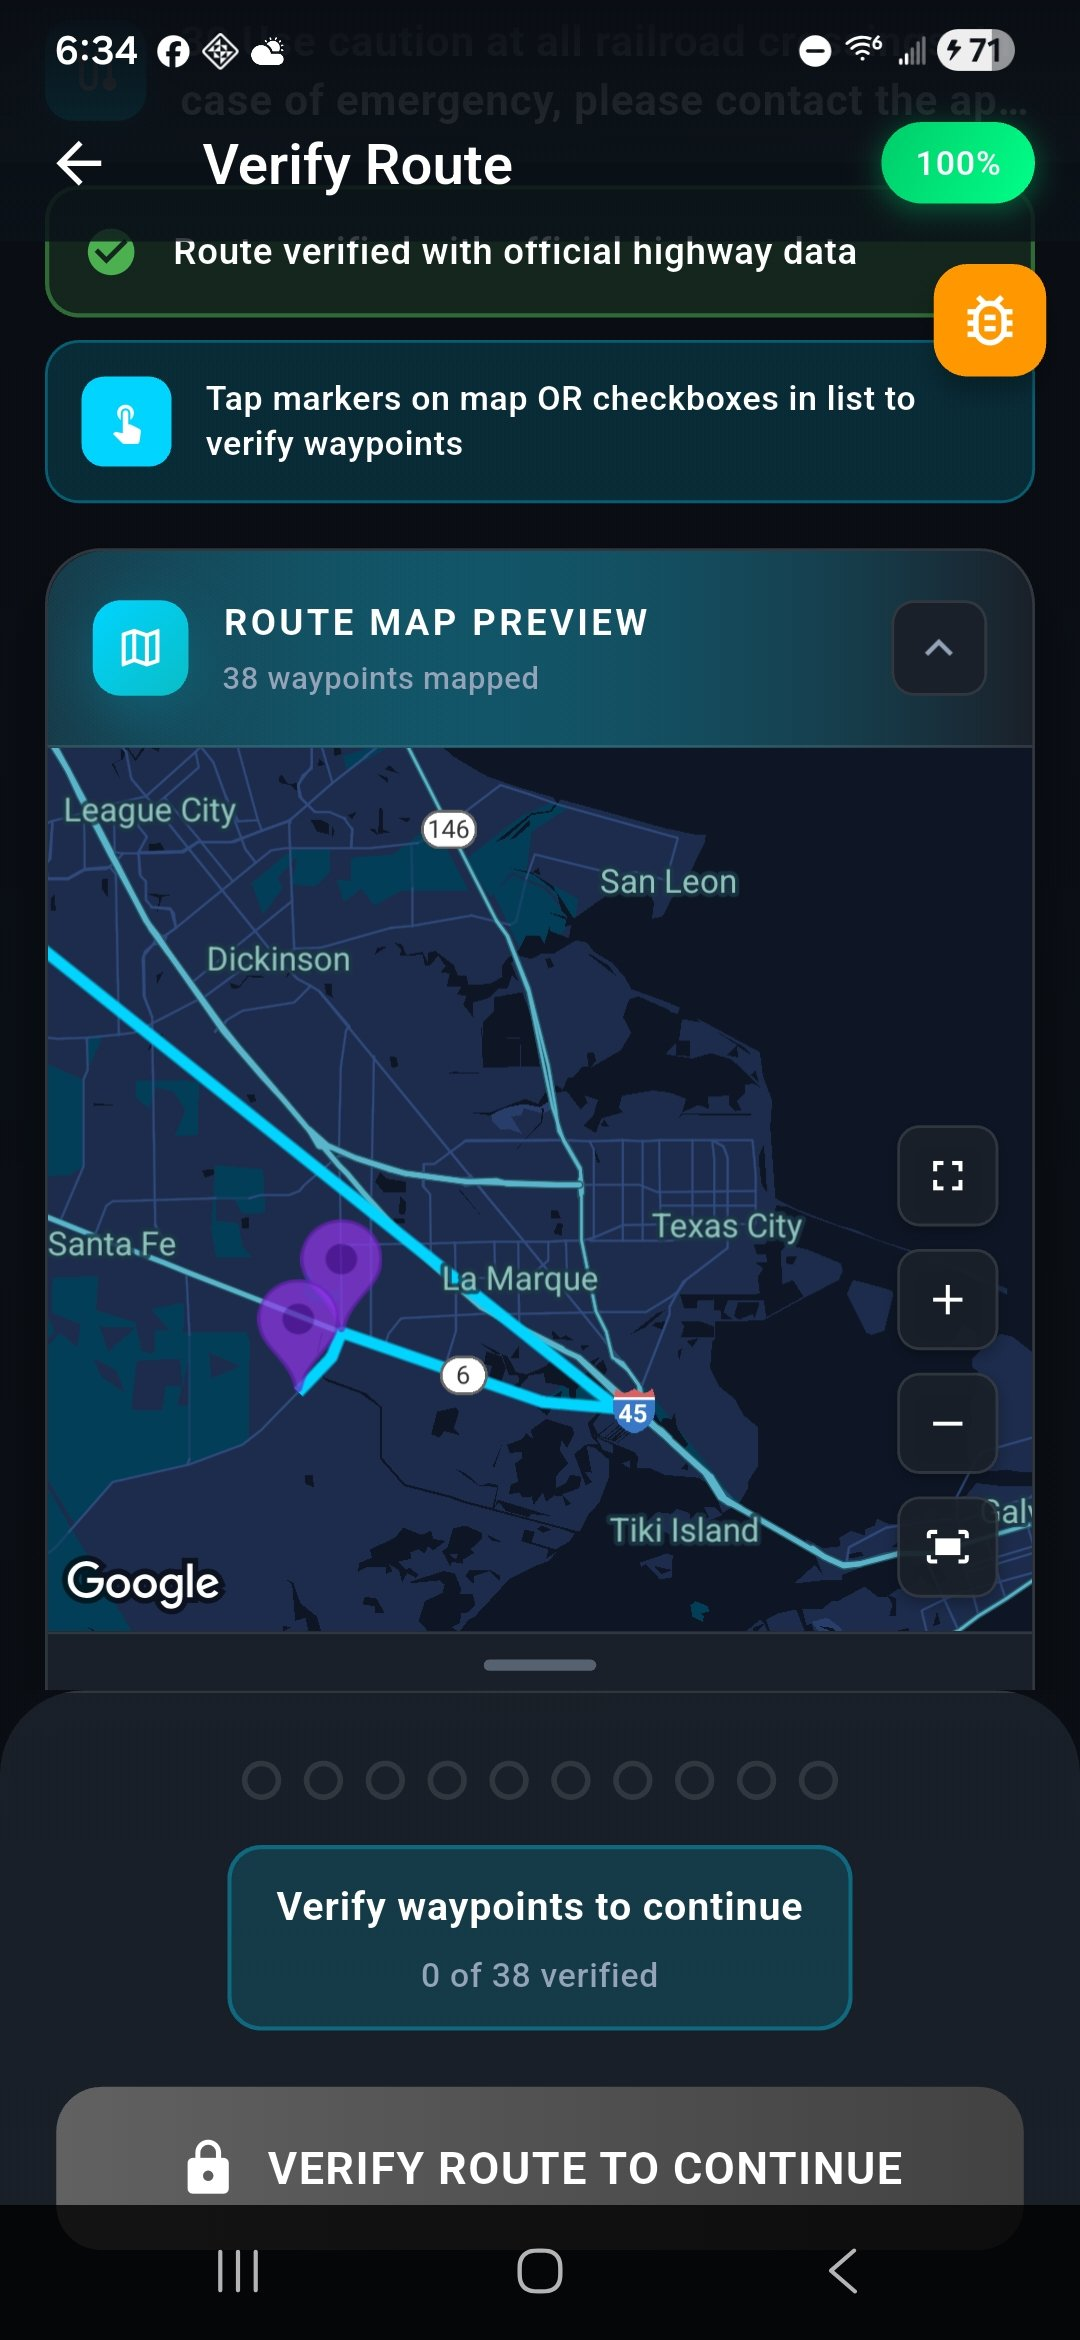
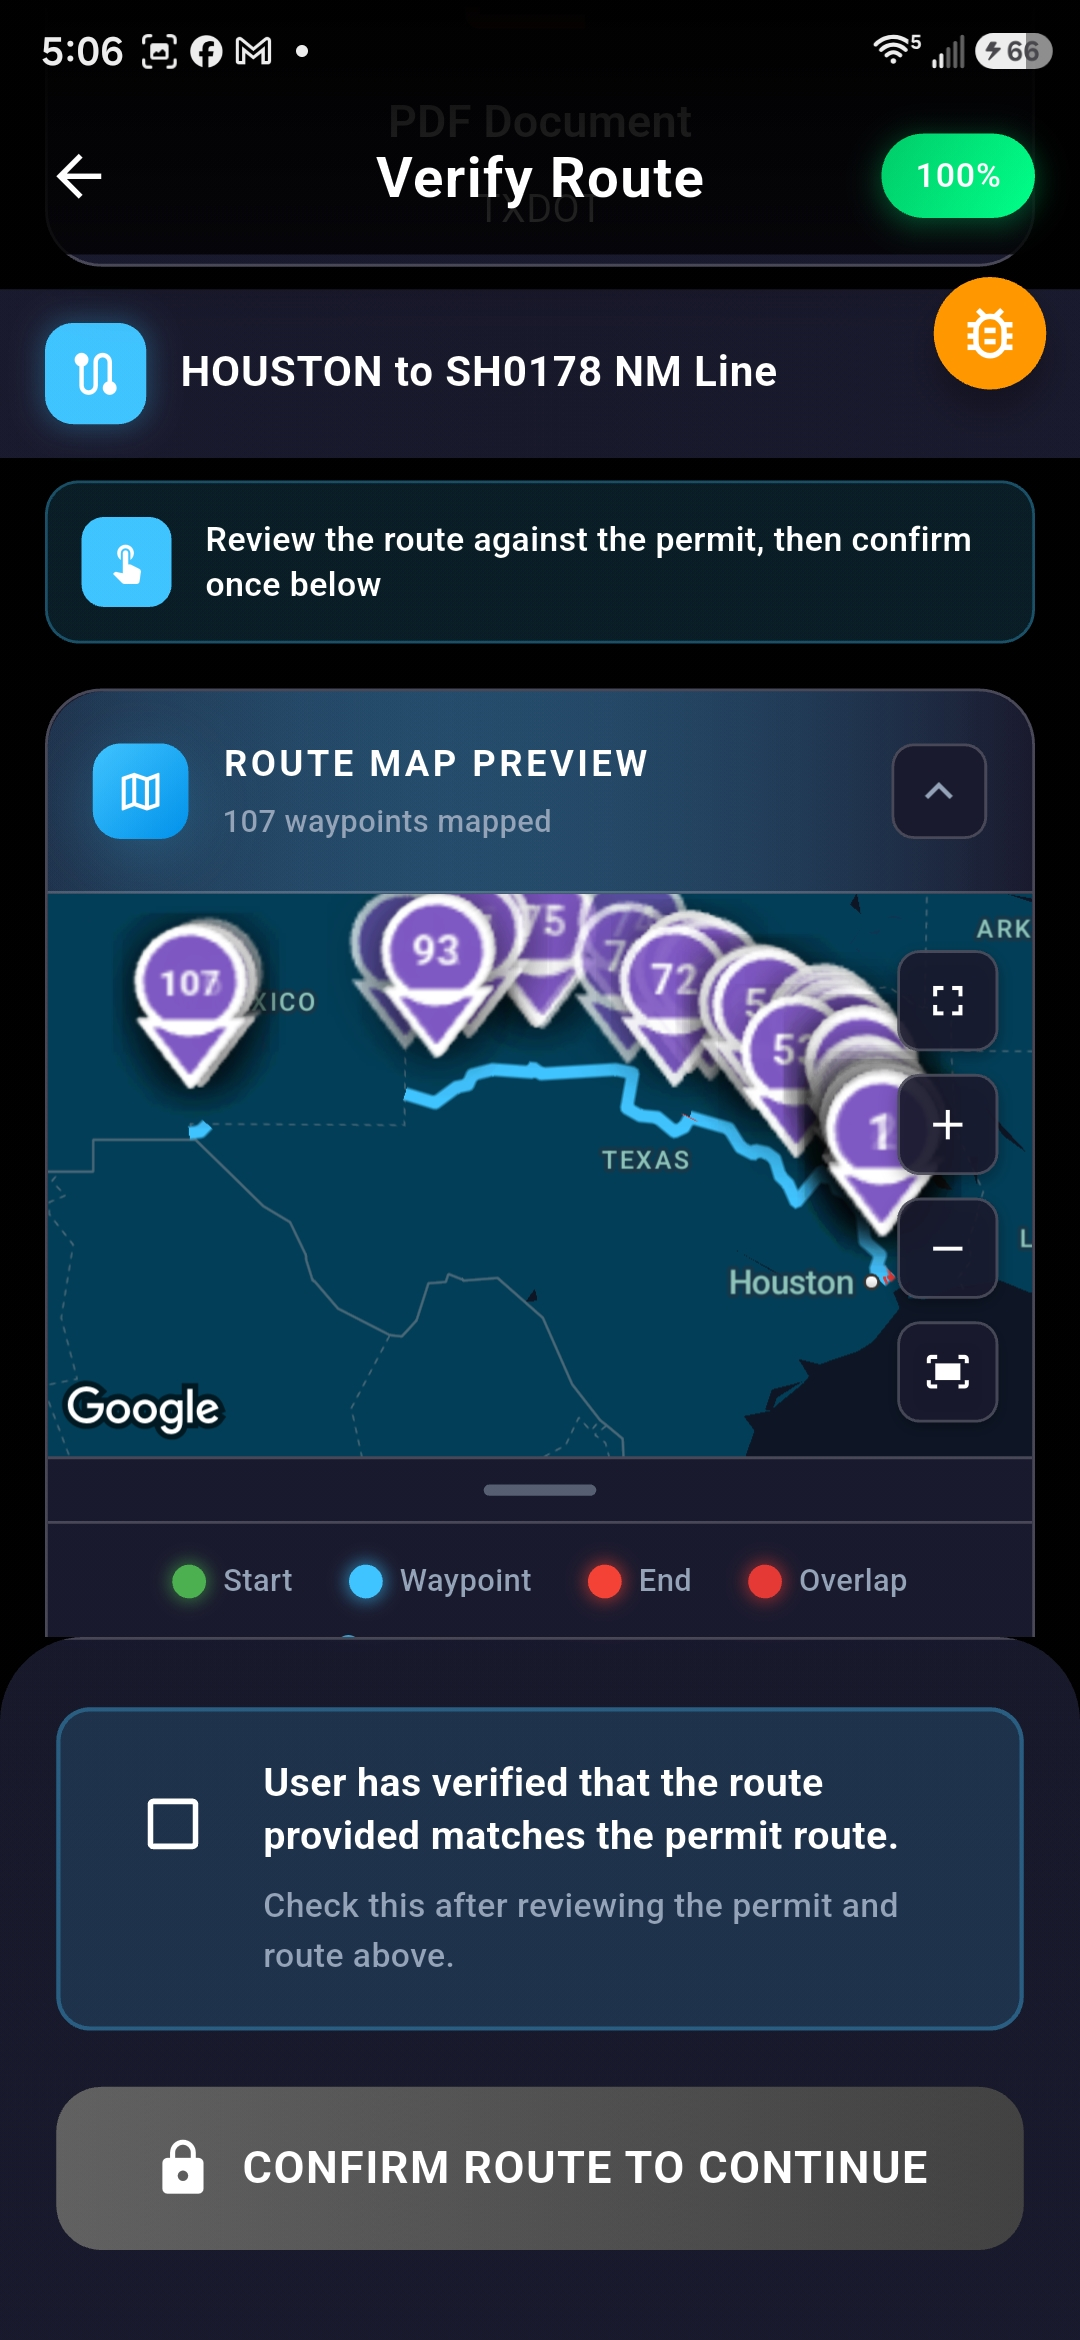
Update website screenshots

diff --git a/index.html b/index.html
@@ -81,26 +81,34 @@
           <p class="eyebrow">Screenshots</p>
           <h2>Route review before navigation</h2>
           <p>
-            The alpha flow is centered on permit capture, OCR processing, route verification,
-            and waypoint-by-waypoint review.
+            The alpha flow is centered on permit capture, route verification, approved-route
+            review, and permit-aware navigation.
           </p>
         </div>
         <div class="screenshot-grid">
           <figure>
-            <img src="assets/screenshots/processing-permit.jpg" alt="Permit Route Pro processing a permit document">
-            <figcaption>Permit OCR and route parsing</figcaption>
+            <img src="assets/screenshots/launch.jpg" alt="Permit Route Pro launch screen">
+            <figcaption>Launch screen</figcaption>
+          </figure>
+          <figure>
+            <img src="assets/screenshots/home-actions.jpg" alt="Permit Route Pro quick actions screen">
+            <figcaption>Quick actions</figcaption>
           </figure>
           <figure>
             <img src="assets/screenshots/route-verification.jpg" alt="Permit Route Pro route verification map preview">
-            <figcaption>Permit route preview</figcaption>
-          </figure>
-          <figure>
-            <img src="assets/screenshots/waypoint-review.jpg" alt="Permit Route Pro waypoint review list">
-            <figcaption>Waypoint review</figcaption>
+            <figcaption>Route verification</figcaption>
           </figure>
           <figure>
             <img src="assets/screenshots/route-map.jpg" alt="Permit Route Pro expanded route map">
             <figcaption>Approved route map</figcaption>
+          </figure>
+          <figure>
+            <img src="assets/screenshots/off-route-detail.jpg" alt="Permit Route Pro off-route navigation warning near the driver location">
+            <figcaption>Off-route warning</figcaption>
+          </figure>
+          <figure>
+            <img src="assets/screenshots/off-route-overview.jpg" alt="Permit Route Pro off-route navigation overview across Texas">
+            <figcaption>Navigation overview</figcaption>
           </figure>
         </div>
       </section>

diff --git a/styles.css b/styles.css
@@ -293,7 +293,7 @@ figure {
 
 .screenshot-grid {
   display: grid;
-  grid-template-columns: repeat(4, minmax(0, 1fr));
+  grid-template-columns: repeat(3, minmax(0, 1fr));
   gap: 18px;
   margin-top: 32px;
 }